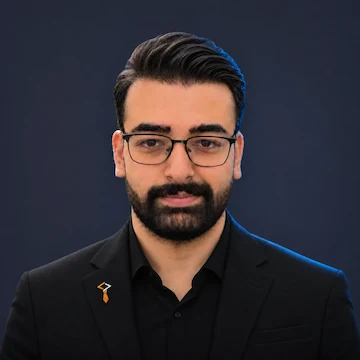
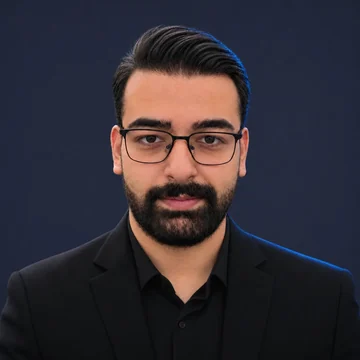
Replace the portfolio profile portrait

Changed region(s): [[0.0306, 0.0611, 1.0, 0.9167], [0.275, 0.7639, 0.3056, 0.8556], [0.0, 0.8556, 0.0306, 0.8861]]

diff --git a/cms/app/Services/AvailabilityService.php b/cms/app/Services/AvailabilityService.php
@@ -6,6 +6,7 @@ use App\Models\AvailabilityRule;
 use App\Models\BlockedSlot;
 use App\Models\Booking;
 use App\Support\Jalali;
+use App\Support\ProfilePortrait;
 use Carbon\Carbon;
 use Carbon\CarbonImmutable;
 use Illuminate\Support\Collection;
@@ -60,7 +61,7 @@ final class AvailabilityService
                     'name_en' => $profile['name'] ?? 'Amirhossein Zamanzade',
                     'name_fa' => $profile['name_fa'] ?? 'امیرحسین زمان زاده',
                     // Root-absolute URL so /fa/* pages do not resolve relative CMS paths under /fa/.
-                    'photo' => $this->publicAssetUrl($profile['photo'] ?? null, 'assets/img/amir/profile.webp'),
+                    'photo' => $this->profilePhotoUrl($profile['photo'] ?? null),
                     'email' => $social['email'] ?? null,
                 ],
                 'now' => CarbonImmutable::now('UTC')->toIso8601String(),
@@ -343,16 +344,16 @@ final class AvailabilityService
         return $a->equalTo($b) ? 30 : 29;
     }
 
-    protected function publicAssetUrl(?string $path, string $fallback): string
+    protected function profilePhotoUrl(?string $path): string
     {
-        $path = trim((string) $path);
-        if ($path === '') {
-            return asset($fallback);
-        }
+        $path = ProfilePortrait::path($path);
         if (preg_match('#^https?://#i', $path) || str_starts_with($path, '//')) {
             return $path;
         }
 
-        return asset(ltrim($path, '/'));
+        $path = ltrim($path, '/');
+        $file = public_path($path);
+
+        return asset($path).(is_file($file) ? '?v='.filemtime($file) : '');
     }
 }

diff --git a/cms/tests/Feature/AdminContentWorkspaceTest.php b/cms/tests/Feature/AdminContentWorkspaceTest.php
@@ -3,6 +3,7 @@
 namespace Tests\Feature;
 
 use App\Models\Project;
+use App\Models\SiteSetting;
 use App\Models\User;
 use Illuminate\Foundation\Testing\RefreshDatabase;
 use Tests\TestCase;
@@ -10,6 +11,19 @@ use Tests\TestCase;
 class AdminContentWorkspaceTest extends TestCase
 {
     use RefreshDatabase;
+
+    public function test_public_views_and_booking_use_the_bundled_portrait_for_a_legacy_profile_path(): void
+    {
+        SiteSetting::query()->updateOrCreate(['key' => 'profile'], [
+            'value' => ['photo' => 'media/published/img/profile.jpg'],
+        ]);
+
+        $this->get('/')->assertOk()->assertSee('/assets/img/amir/profile-360.webp?v=', false);
+        $this->get('/about')->assertOk()->assertSee('/assets/img/amir/profile.webp?v=', false);
+        $this->get('/fa/contact')->assertOk()->assertSee('/assets/img/amir/profile.webp?v=', false);
+        $this->getJson('/api/booking/bootstrap?locale=fa')->assertOk()
+            ->assertJsonPath('config.profile.photo', fn (string $url) => str_contains($url, '/assets/img/amir/profile.webp?v='));
+    }
 
     public function test_bundled_project_import_edit_and_archive_follow_publication(): void
     {

diff --git a/cms/app/Http/Controllers/PublicSiteController.php b/cms/app/Http/Controllers/PublicSiteController.php
@@ -4,6 +4,7 @@ namespace App\Http\Controllers;
 
 use App\Models\SiteSetting;
 use App\Services\PortfolioContent;
+use App\Support\ProfilePortrait;
 use Illuminate\Http\JsonResponse;
 use Illuminate\Http\Request;
 use Illuminate\Http\Response;
@@ -160,8 +161,8 @@ class PublicSiteController extends Controller
             return asset($path).(is_file($file) ? '?v='.filemtime($file) : '');
         };
 
-        $bundledProfile = 'assets/img/amir/profile.webp';
-        $profilePhoto = $this->assetUrl($profile['photo'] ?? '', $bundledProfile);
+        $bundledProfile = ProfilePortrait::DEFAULT_PATH;
+        $profilePhoto = $this->assetUrl(ProfilePortrait::path($profile['photo'] ?? null));
         $usesBundledProfile = $profilePhoto === asset($bundledProfile);
 
         $pages = ['home', 'work', 'about', 'ask', 'contact'];

diff --git a/cms/resources/views/components/site/profile.blade.php b/cms/resources/views/components/site/profile.blade.php
@@ -7,7 +7,7 @@
                       class="az-profile__photo"
                       src="{{ $profilePhoto }}"
                       @if ($profilePhotoThumbnail ?? null)
-                        srcset="{{ $profilePhotoThumbnail }} 360w, {{ $profilePhoto }} 2048w"
+                        srcset="{{ $profilePhotoThumbnail }} 360w, {{ $profilePhoto }} 1254w"
                         sizes="(max-width: 767px) clamp(90px, 24vw, 112px), clamp(120px, 11vw, 152px)"
                       @endif
                       width="640"

diff --git a/cms/app/Support/ProfilePortrait.php b/cms/app/Support/ProfilePortrait.php
@@ -1,0 +1,16 @@
+<?php
+
+namespace App\Support;
+
+final class ProfilePortrait
+{
+    public const DEFAULT_PATH = 'assets/img/amir/profile.webp';
+
+    public static function path(?string $path): string
+    {
+        $path = trim((string) $path);
+        $bundledAliases = ['', 'media/library/profile.jpg', 'media/published/img/profile.jpg', 'media/published/img/profile.webp'];
+
+        return in_array(ltrim($path, '/'), $bundledAliases, true) ? self::DEFAULT_PATH : $path;
+    }
+}
